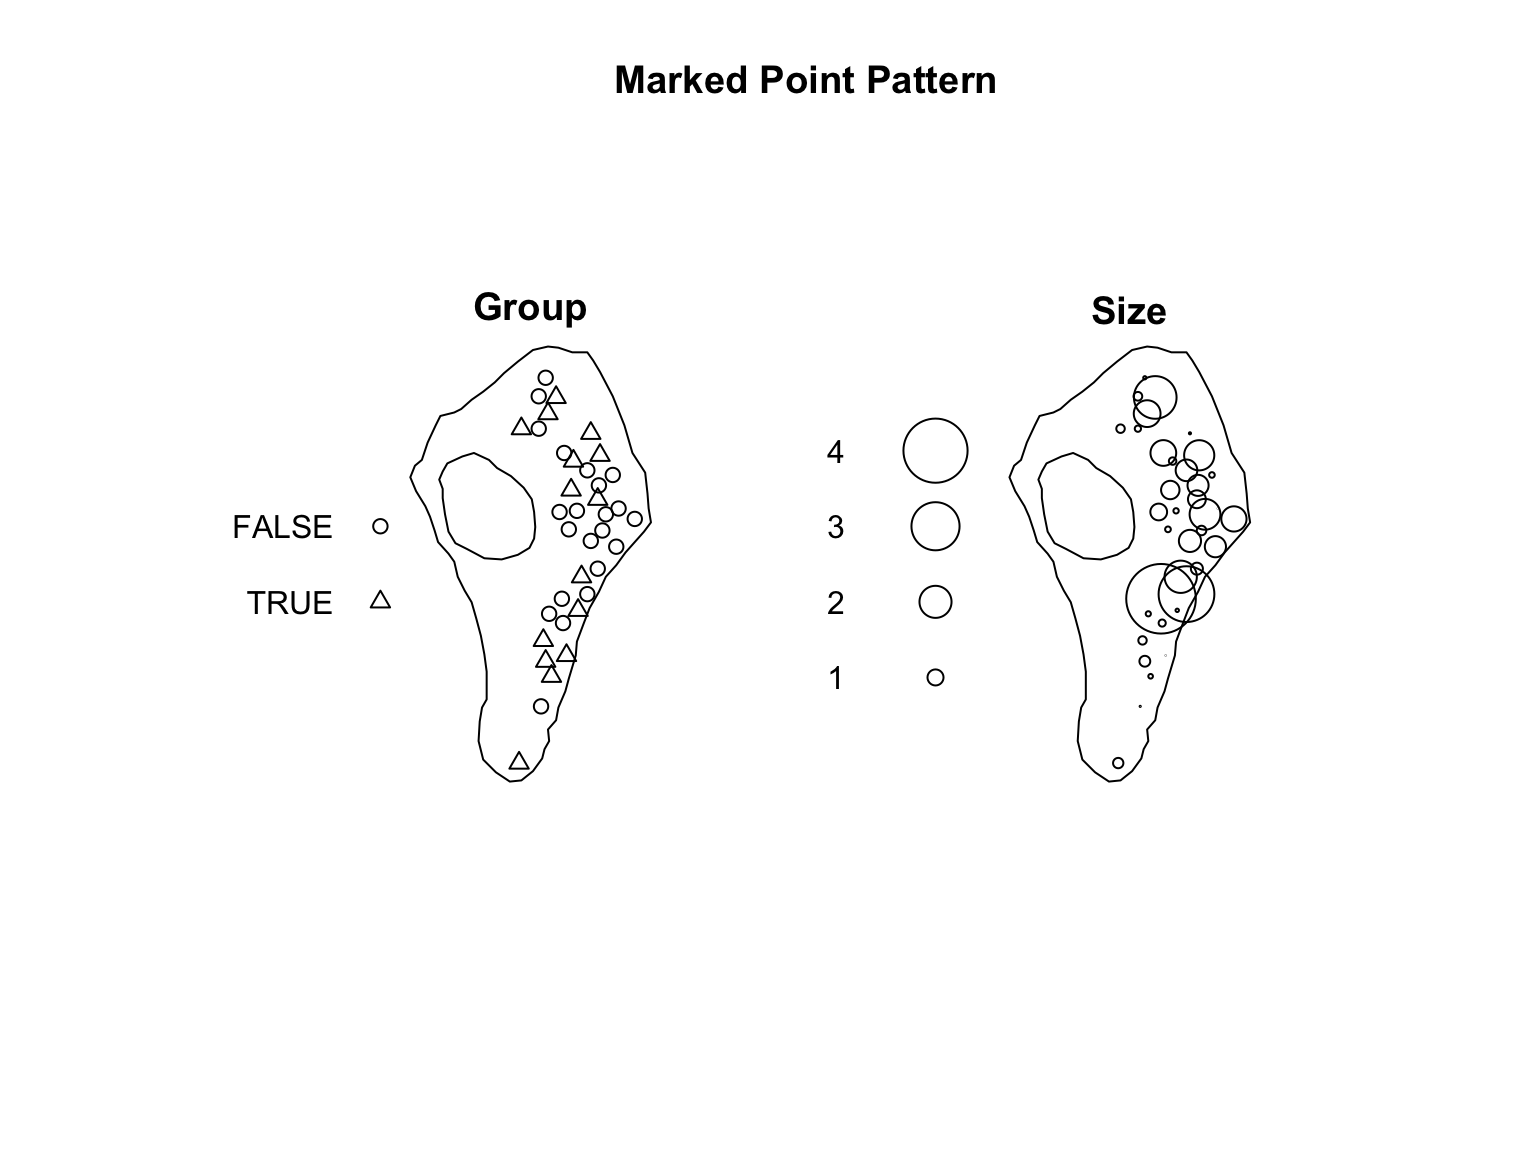
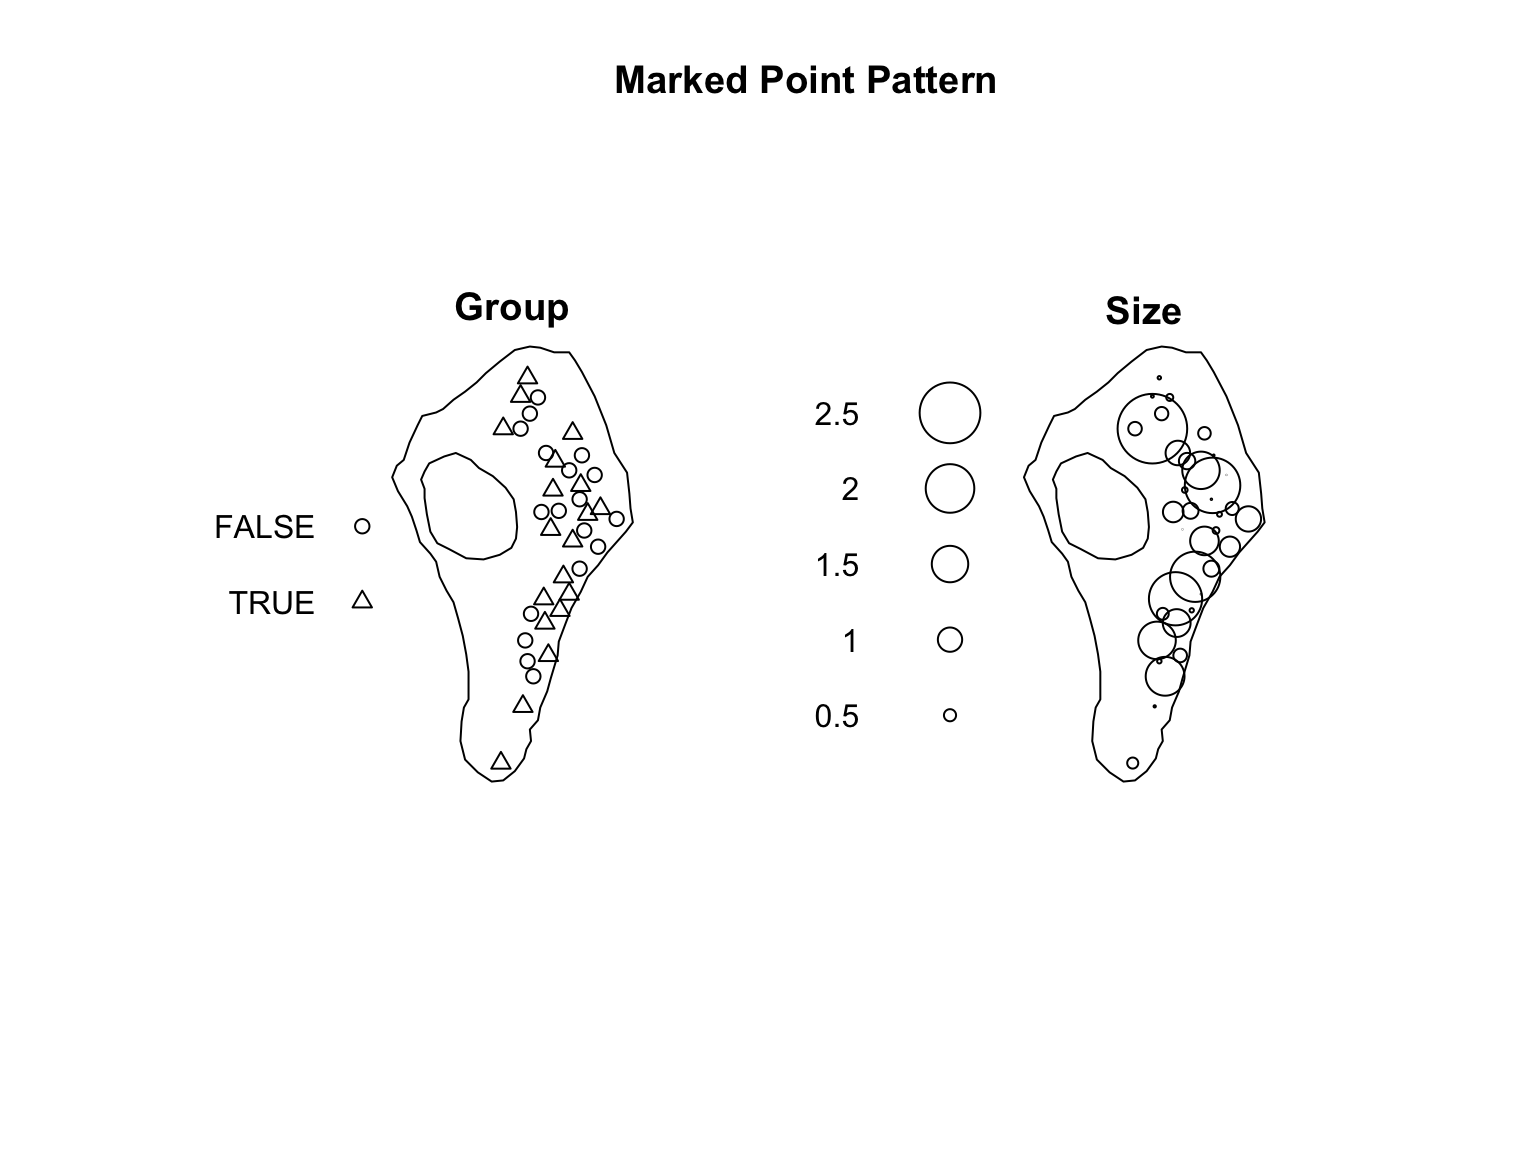
lecture 08 recording

diff --git a/01_spatstat.html b/01_spatstat.html
@@ -681,12 +681,12 @@ summary(vesicles_ppp)</code></pre>
 ## Mark variables: Group, Size
 ## Summary:
 ##    Group              Size         
-##  Mode :logical   Min.   :0.002141  
-##  FALSE:22        1st Qu.:0.349216  
-##  TRUE :15        Median :0.645336  
-##                  Mean   :1.009567  
-##                  3rd Qu.:1.381365  
-##                  Max.   :4.340074  
+##  Mode :logical   Min.   :0.009485  
+##  FALSE:18        1st Qu.:0.182279  
+##  TRUE :19        Median :0.550348  
+##                  Mean   :0.748652  
+##                  3rd Qu.:1.041947  
+##                  Max.   :2.864741  
 ## 
 ## Window: polygonal boundary
 ## 2 separate polygons (1 hole)
@@ -703,12 +703,12 @@ npoints(vesicles_ppp)</code></pre>
 <pre class="r"><code>#marks
 head(marks(vesicles_ppp))</code></pre>
 <pre><code>##   Group      Size
-## 1  TRUE 1.8819110
-## 2  TRUE 0.1348912
-## 3  TRUE 2.6592318
-## 4 FALSE 0.5429400
-## 5 FALSE 0.2027415
-## 6  TRUE 1.6691753</code></pre>
+## 1 FALSE 0.0687878
+## 2  TRUE 0.5178509
+## 3 FALSE 0.2893958
+## 4  TRUE 0.1160360
+## 5  TRUE 0.1408090
+## 6 FALSE 0.5503479</code></pre>
 <pre class="r"><code>#coordinates
 head(coords(vesicles_ppp))</code></pre>
 <pre><code>##          x        y
@@ -721,12 +721,12 @@ head(coords(vesicles_ppp))</code></pre>
 <pre class="r"><code>#Coordinates and mark information
 head(as.data.frame(vesicles_ppp))</code></pre>
 <pre><code>##          x        y Group      Size
-## 1 467.0168 776.0189  TRUE 1.8819110
-## 2 445.3418 827.4970  TRUE 0.1348912
-## 3 364.0606 911.4876  TRUE 2.6592318
-## 4 323.4200 914.1969 FALSE 0.5429400
-## 5 339.6762 957.5469 FALSE 0.2027415
-## 6 345.0950 873.5563  TRUE 1.6691753</code></pre>
+## 1 467.0168 776.0189 FALSE 0.0687878
+## 2 445.3418 827.4970  TRUE 0.5178509
+## 3 364.0606 911.4876 FALSE 0.2893958
+## 4 323.4200 914.1969  TRUE 0.1160360
+## 5 339.6762 957.5469  TRUE 0.1408090
+## 6 345.0950 873.5563 FALSE 0.5503479</code></pre>
 <p>These functions can also be paired with the assign operator
 <code>&lt;-</code> to modify components of a <code>ppp</code> object as
 needed. For instance, change the <code>TRUE</code>/<code>FALSE</code>
@@ -742,12 +742,12 @@ marks(vesicles_ppp) &lt;- m
 
 head(marks(vesicles_ppp))</code></pre>
 <pre><code>##      Group      Size
-## 1   Active 1.8819110
-## 2   Active 0.1348912
-## 3   Active 2.6592318
-## 4 Inactive 0.5429400
-## 5 Inactive 0.2027415
-## 6   Active 1.6691753</code></pre>
+## 1 Inactive 0.0687878
+## 2   Active 0.5178509
+## 3 Inactive 0.2893958
+## 4   Active 0.1160360
+## 5   Active 0.1408090
+## 6 Inactive 0.5503479</code></pre>
 <pre class="r"><code>plot(vesicles_ppp, which.marks = &quot;Group&quot;)</code></pre>
 <p><img src="01_spatstat_files/figure-html/unnamed-chunk-14-1.png" width="768" /></p>
 <p>This is particularly useful if we calculate values midway through an
@@ -764,12 +764,12 @@ marks(vesicles_ppp) &lt;- m
 
 head(marks(vesicles_ppp))</code></pre>
 <pre><code>##      Group      Size     Dist
-## 1   Active 1.8819110 46.13896
-## 2   Active 0.1348912 55.85516
-## 3   Active 2.6592318 40.73081
-## 4 Inactive 0.5429400 40.73081
-## 5 Inactive 0.2027415 46.29779
-## 6   Active 1.6691753 41.35679</code></pre>
+## 1 Inactive 0.0687878 46.13896
+## 2   Active 0.5178509 55.85516
+## 3 Inactive 0.2893958 40.73081
+## 4   Active 0.1160360 40.73081
+## 5   Active 0.1408090 46.29779
+## 6 Inactive 0.5503479 41.35679</code></pre>
 <pre class="r"><code>plot(vesicles_ppp, which.marks = &quot;Dist&quot;)</code></pre>
 <p><img src="01_spatstat_files/figure-html/unnamed-chunk-15-1.png" width="768" /></p>
 <p>Point patterns can be subset using normal <code>R</code> data

diff --git a/Lectures.html b/Lectures.html
@@ -441,7 +441,7 @@ class="section level4">
 <div id="lecture-08---kriging-with-covariates" class="section level4">
 <h4>Lecture 08 - Kriging with covariates</h4>
 <p><a href="Lectures/08_coKriging.pdf" target="_blank">Slides.</a></p>
-<!-- <a href="" target="_blank">Recording.</a> -->
+<p><a href="https://ubc.zoom.us/rec/share/uIpKBzYL2XpBy_GIhCa-qeiAoRk719rXPGsp1ZVnQp0q8UifaBm8_0Ge2bywEohd.FaNoBr9qPajUd4in" target="_blank">Recording.</a></p>
 <p><br /></p>
 </div>
 </div>
